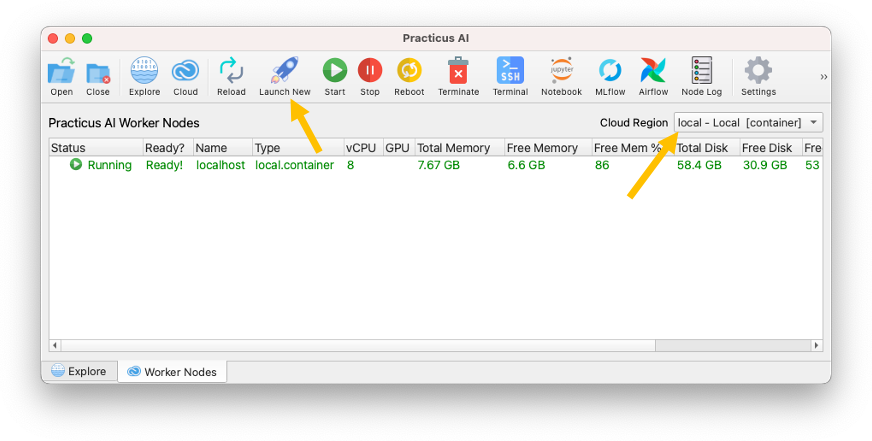
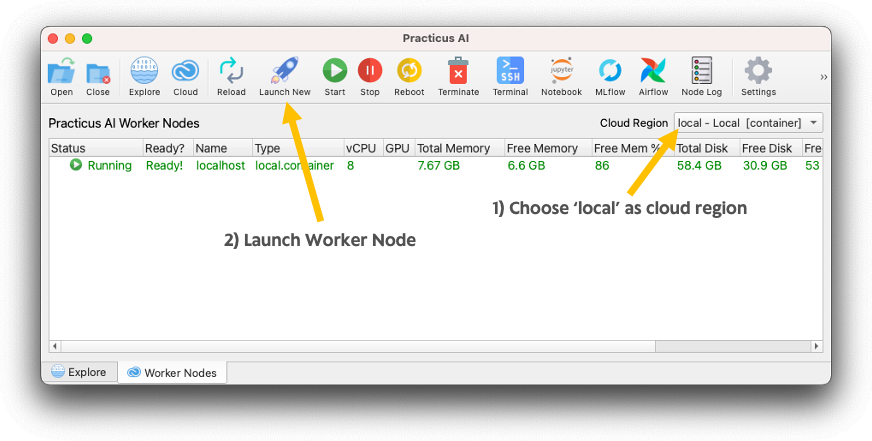
minor updates

Changed region(s): [[0.0, 0.059, 0.9908, 0.9728], [0.0619, 0.0295, 0.9289, 0.059], [0.2477, 0.5306, 0.4954, 0.5601]]

diff --git a/docs/setup-guide.md b/docs/setup-guide.md
@@ -2,7 +2,10 @@ Welcome! It should take **a few minutes to set up everything** and be ready to g
 
 ## Overview
 
-Below you can see a simplified view of Practicus AI setup options. One or more will be enough depending on your needs.    
+You can see a simplified view of Practicus AI setup options below. 
+
+- **Practicus AI App is Forever Free** and include common analytics and data preparation features. 
+- **Worker Nodes with Forever Free Tier** are optional but highly recommended. They bring in [more functionality](#what-is-a-worker-node) such as AutoML. You can choose one or more Worker Node technology. 
 
 ![](img/setup-summary.png)
 
@@ -10,9 +13,12 @@ Below you can see a simplified view of Practicus AI setup options. One or more w
 
 Practicus AI App works on your computer and contains the core functionality of our platform. 
 
-If you haven't already, please install Practicus AI forever free app for [Windows](https://www.microsoft.com/en-us/p/practicus-ai/9p9f4hvkvcqg), [macOS](https://github.com/practicusai/app/releases/download/latest/practicus.pkg) or [Linux](#linux-installation).  
+If you haven't already, please install **Practicus AI App** for [Windows](https://www.microsoft.com/en-us/p/practicus-ai/9p9f4hvkvcqg), [macOS](https://github.com/practicusai/app/releases/download/latest/practicus.pkg) or [Linux](#linux-installation).  
 
-If you are a Python user and prefer to install Practicus AI as a library, please check our [Python Setup Guide](#python-setup-guide) section below. 
+If you are a Python user and prefer to install Practicus AI App as a library, please check our [Python Setup Guide](#python-setup-guide) section below. 
+
+If you are a programmer and only interested in installing the lightweight **Practicus AI SDK** (5MB), please only install **practicuscore** library using the [Python Setup Guide](#python-setup-guide) section below.
+ 
 
 ## Choose a Worker Node System
 
@@ -33,8 +39,9 @@ You have multiple Worker Node options to choose from, and you can find a quick s
 - Scales-up. Has very large capacity options with up to 4TB RAM and hundreds of CPUs.
 - GPU Accelerated option with up to 50,000+ CUDA cores for complex AI/ML problems.
 - No need to manage software due to ephemeral nature. Start, use, and dispose when done. 
-- Has Free Tier for 2 vCPUs and 1GB RAM, and professional tier for larger capacity.
+- Has Forever Free Tier for 2 vCPUs and 1GB RAM, and professional tier for larger capacity.
 - For professional use, you can pay as you go hourly through [AWS marketplace](https://aws.amazon.com/marketplace/search?searchTerms=practicus+ai). 
+- Offers Enterprise license option with unlimited user and capacity as well. [Compare license options](https://practicus.ai/pricing/).
 
 **Cons**
 
@@ -49,16 +56,17 @@ If this is the right option for you, please visit the [cloud activation](#cloud-
 **Pros**
 
 - Runs 100% private and securely on your computer. 
-- Lowest cost option and has forever free tier.
+- Lowest cost option and has forever free tier. 
+- No limitations on CPU/RAM available for the Free Tier. 
 - Most new generation laptops have high compute capacity. You can easily process 50 million+ row datasets and fairly complex AutoML problems.
-- You can switch back and forth to the cloud. E.g. You can use your computer for most use cases, switch to using the cloud with one click for complex problems, and then switch back to continue on your computer when done.  
-- If yu have a Practicus AI enterprise license, all professional features are unlocked and you get the same experience as the pro cloud option.  
-- Fairly simple installation and ready in 5-10 minutes
+- You can switch back and forth to the cloud. E.g. You can use your computer for most use cases, switch to using the cloud with one click for very complex problems requiring GPUs (assuming your laptop doesn't have GPUs), and then switch back to continue on your computer when done.  
+- If you have a Practicus AI Enterprise license, all professional features are unlocked, and you get the same experience as the pro cloud option. 
+- Fairly simple installation and ready in 5-10 minutes.
 
 **Cons**
 
 - Although fairly straightforward, you still have to install [Docker Desktop](https://www.docker.com/products/docker-desktop/) or [Podman Desktop](https://podman-desktop.io)
-- If you need to access **10 Million+ cloud data rows and 50+ times a day**, you should probably prefer a Worker Node on the cloud. Network traffic between the Practicus AI app and Worker Nodes are heavily compressed, and first time data access will feel slower with the local container.
+- If you need to access **~10 Million+ cloud data store rows and ~50+ times a day**, you should probably prefer a Worker Node on the cloud. Network traffic between the Practicus AI app and Worker Nodes are heavily compressed, and first time data access will feel slower with the local container.
 - If you use a **cloud data lake such as S3 and need to frequently scan large tables**, a cloud Worker Node in the same cloud region will be several orders of magnitude faster. In this scenario we recommend you to use cloud and local Worker Nodes together. Practicus AI App allows you to use multiple Worker Nodes at the same time, local or on the cloud. 
 
 If this is the right option for you, please visit the [local container](#local-container) section below to get started.
@@ -96,7 +104,9 @@ Practicus AI cloud offers 3 different licenses.
 
 We offer a **forever free cloud tier using 2 vCPUs and 1 GB RAM** on AWS with **t3.micro** cloud instances.
 
-Please note that some AWS cloud regions charge roughly 1 cent / hour for t3.micro. If you need to make sure everything your use is absolutely free, please make sure you pick an appropriate AWS cloud region. AWS also offer free tiers for other potential charges like S3 storage and network traffic. To keep everything free, you must experiment responsibly and make sure you do not go beyond these AWS limits. Please view [AWS free tier details](https://aws.amazon.com/free/) to learn more. 
+Please note that some AWS cloud regions charge roughly 1 cent / hour for t3.micro (see below). If you need to make sure everything your use is **absolutely free**, please make sure you pick an appropriate AWS cloud region. AWS also offer free tiers for other potential charges like S3 storage and network traffic. To keep everything free, you must experiment responsibly and make sure you do not go beyond these AWS limits. 
+
+- Please view [AWS free tier details](https://aws.amazon.com/free/) to learn more.
 
 #### Professional license
 
@@ -307,13 +317,13 @@ Please check the quick start guide [below](#macos-or-linux-quickstart) to see ho
 
 
 ### Python Setup Guide
-You can run **pip install practicus** (Windows/macOS: Python 3.7 – 3.10, Linux: 3.8 – 3.10) and then run **practicus** from the terminal. Or run, python -c “import practicus; practicus.run()”  (python3 for macOS or Linux).
+You can run **pip install practicus** (Windows/macOS: Python 3.8 – 3.10, Linux: 3.8 – 3.11) and then run **practicus** from the terminal. Or run, python -c “import practicus; practicus.run()”  (python3 for macOS or Linux).
 
 Installing using pip will give you the exact same end-to-end GUI application experience. Similarly, if you download the packaged app you can still code freely when you want to. So, please select any method of installation as you prefer. 
 
 As for any Python application, we strongly recommend you to use a virtual environment such as venv or conda. Please check the recommended QuickStart scripts on this page to create a virtual env, install Practicus AI and run with peace of mind and in one go.  
 
-For server environments or API only usage, you can **pip install practicuscore** to install the core library by itself without the GUI elements. (Linux: Python 3.6 – 3.10, Windows/macOS: Python 3.7 – 3.10) 
+For server environments or API only usage, you can **pip install practicuscore** to install the core library by itself without the GUI elements. (Linux: Python 3.6 – 3.11, Windows/macOS: Python 3.8 – 3.1) 
 
 This is a small library with fewer requirements and no version enforcement for any of its dependencies. It’s designed to run in existing virtual environments without overriding the version requirements of other libraries. Please check the documentation for more details. 
 
